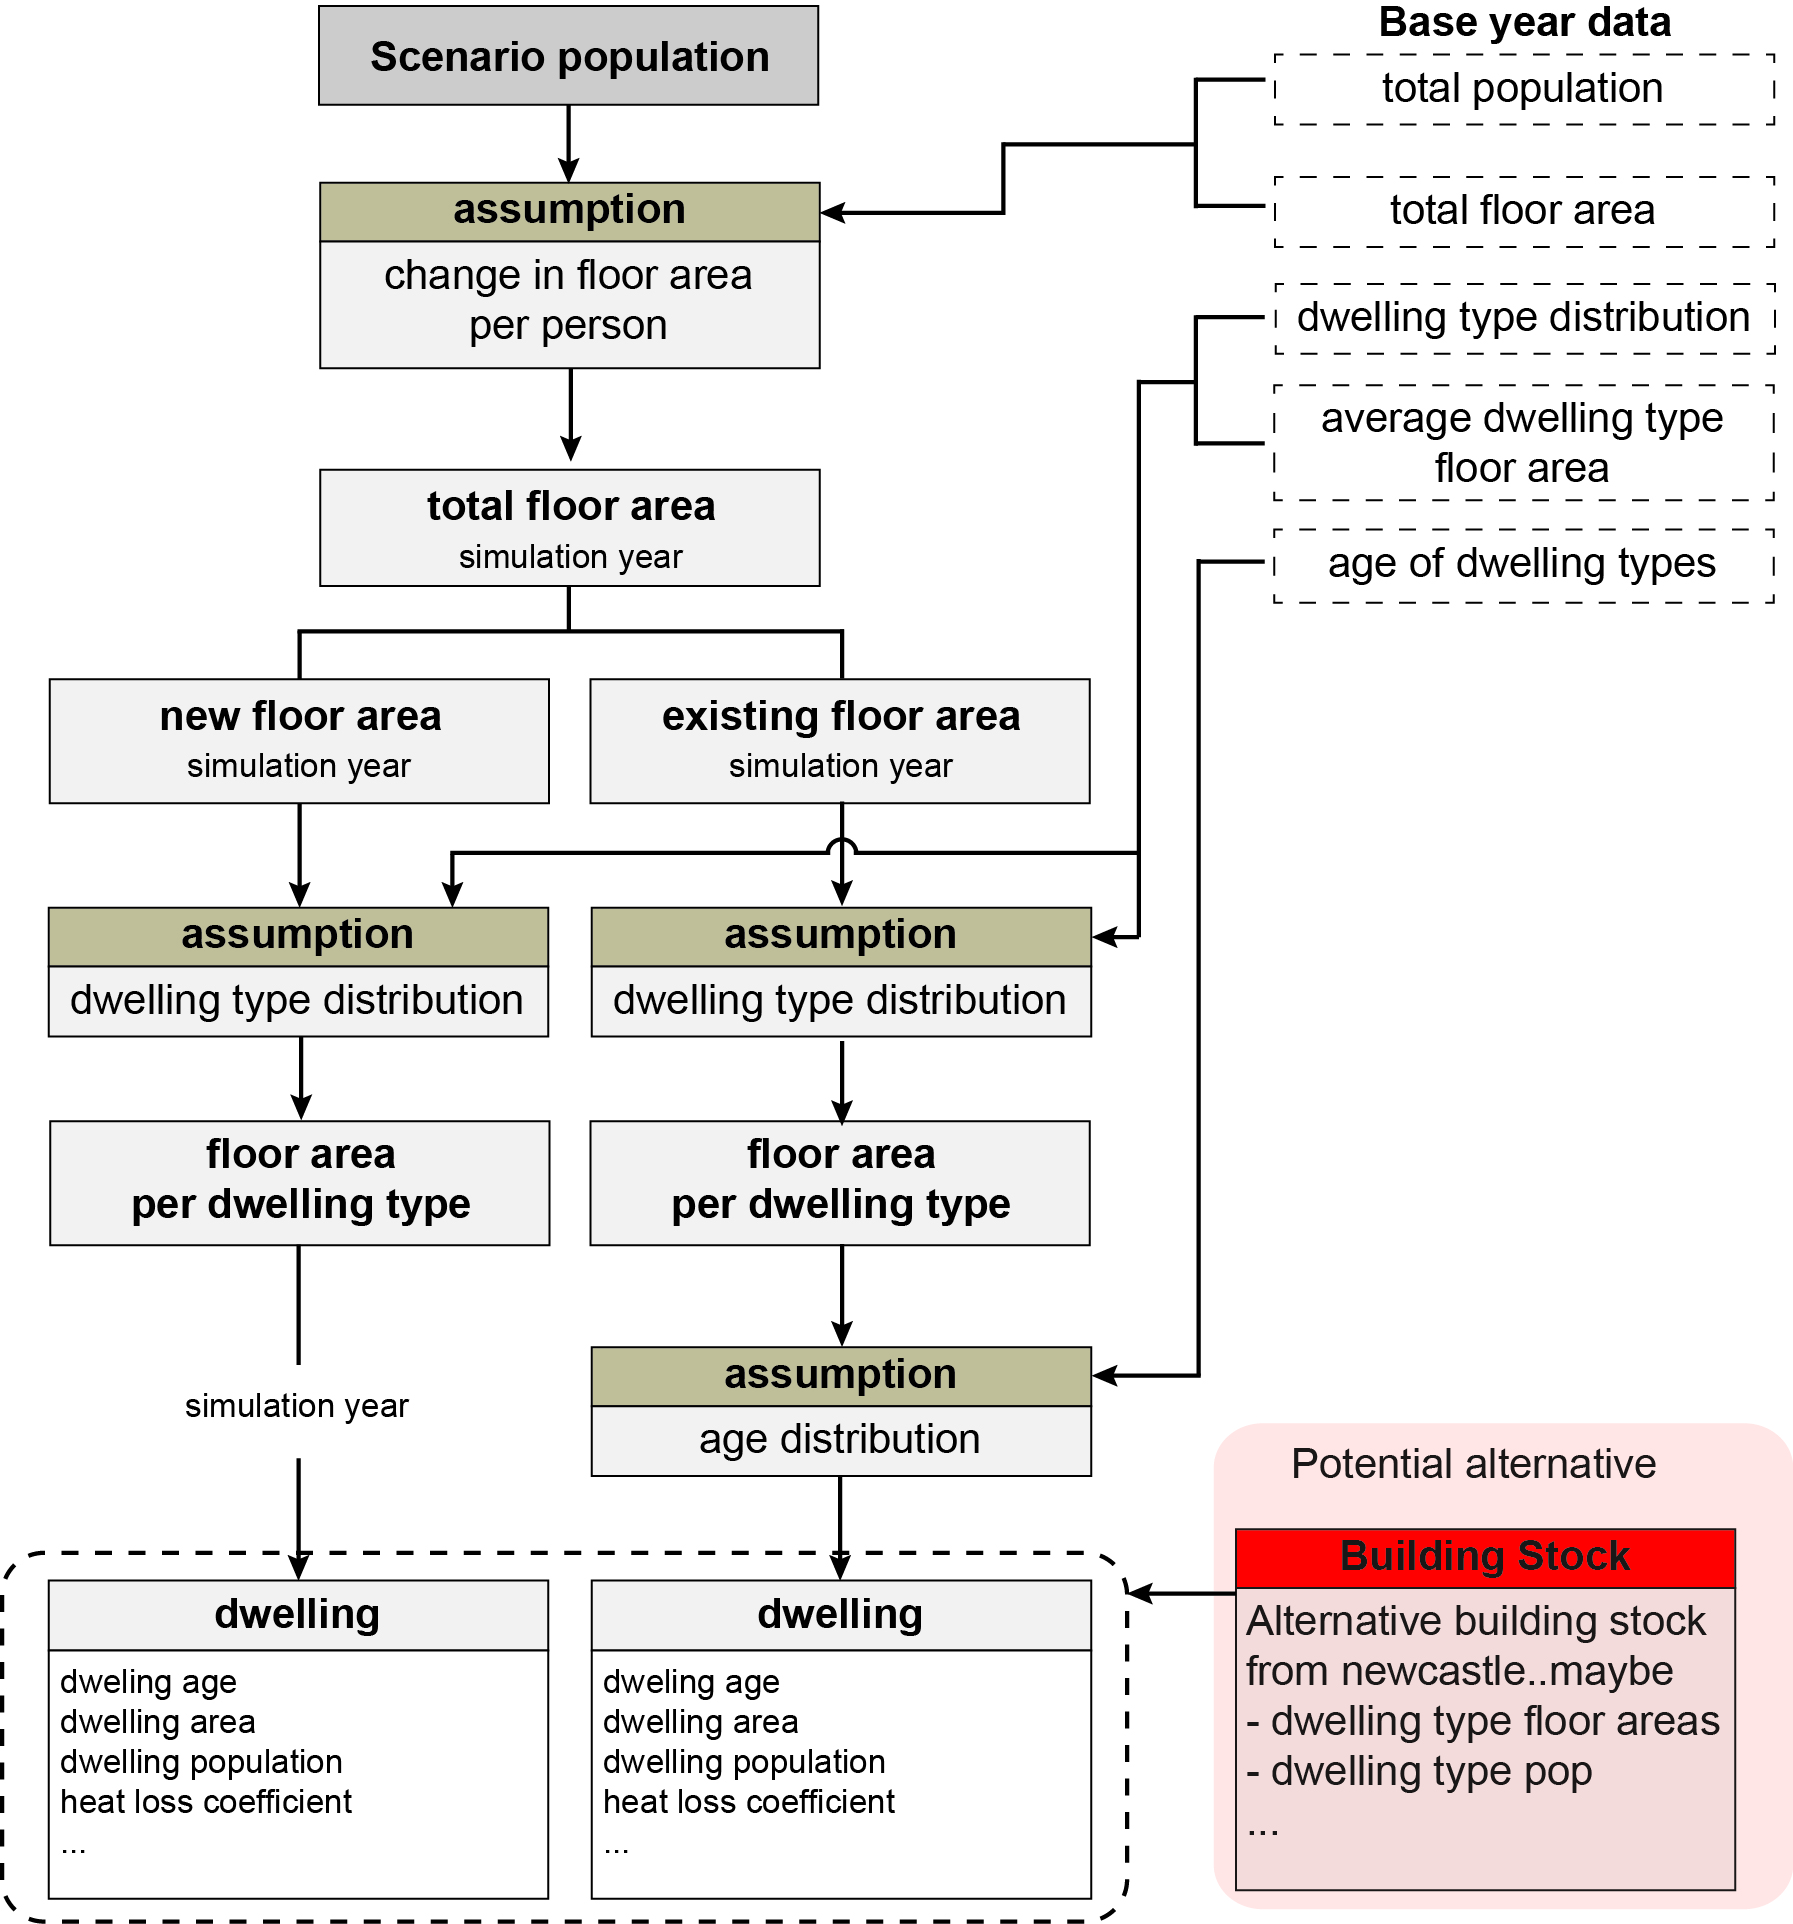
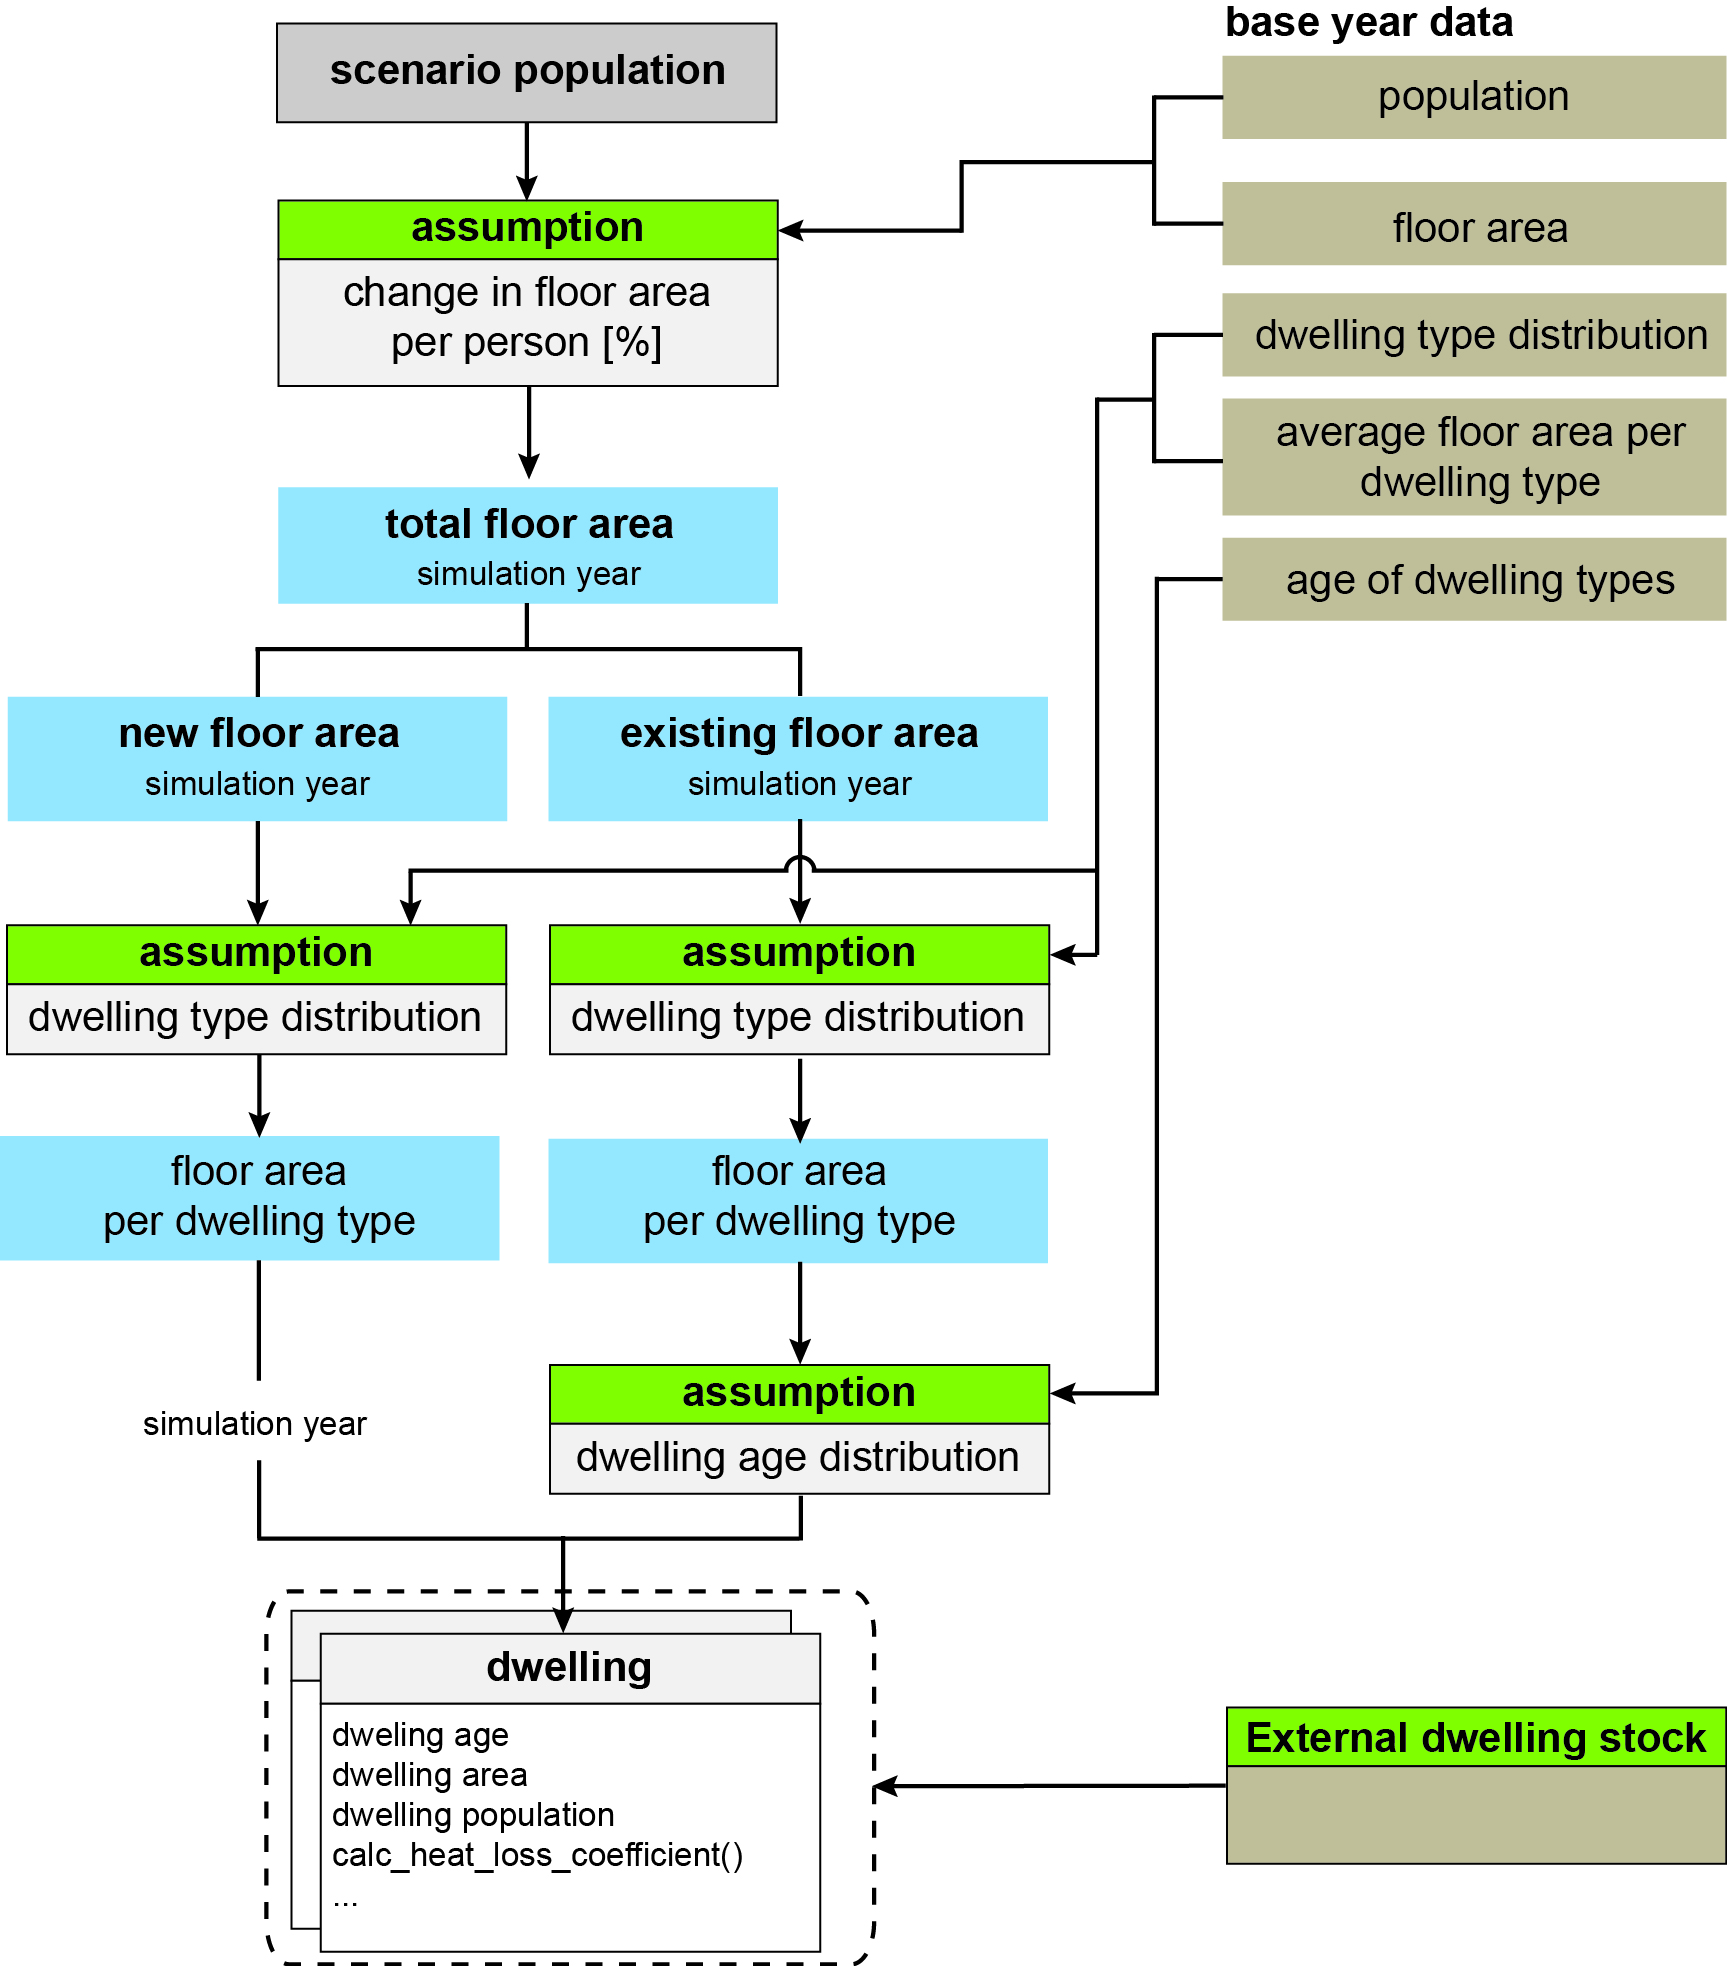
updated documentation

diff --git a/run.py b/run.py
@@ -468,7 +468,7 @@ class EDWrapper(SectorModel):
         write_data.write_lf(path_runs, "result_reg_load_factor_autumn", [timestep], reg_load_factor_autumn, 'reg_load_factor_autumn')
 
         logging.info("... finished wrapper calculations")
-        #prnt(":")
+
         return {'model_name': supply_results}
 
     def extract_obj(self, results):

diff --git a/docs/documentation.md b/docs/documentation.md
@@ -21,7 +21,7 @@ to be stored in a local folder (`data_energy_demand`).
 Documentation
 ===================
 
-## 1. Overview
+## 1. Introduction
 
 
 The energy demand model of the ITRC-MISTRAL framework allows 
@@ -41,7 +41,21 @@ are defined and modelled where possible on a household level.
 The energy demand model integrates energy demands across
 all ITRC models and provides demands to the supply model.
 
-### 1.1. Energy demand simulation
+
+
+## 2. Overview of model and simulation approach
+
+![Model overview](../docs/documentation_images/000-model_overview.jpg)
+*Figure XY: Overview of modelled end uses and sectors*
+
+
+## 3. Main working steps
+
+The main working steps as outlined in Figure XY are explained
+
+### 3.1 Spatial disaggregation
+
+### 3.2 Annual demand simulation
 
 Total energy demand of a (simulation) year (![equation](https://latex.codecogs.com/gif.latex?ED_%7By%7D%5E%7Btot%7D "ED_{y}^{tot}"))is calculated over all regions (r), sectors (s), end-uses (e), technologies (t) and fuel-types (f) as follows:
 
@@ -93,15 +107,12 @@ For the residential and service sub-model, SD values are calculated based on a d
 
 *Table 1.1: End-use specific scenario drivers for energy demand*
 
-### 1.2 Main working flow
-
-Lorem ipsum...
 ![Image of model integration](../docs/documentation_images/004-ULM_main_classes.jpg)
 *Figure 3.1: Interaction*
 
-## 3. Model integration
+## XY. Model Interaction
 
-This section explains how the energy demand and energy supply model interact.
+
 
 ### 3.1 Energy supply and demand model
 
@@ -118,18 +129,15 @@ Lorem ipsum...
 
 ## 4. Generic Dwelling Stock Model
 
-A generic dwelling model is implemented in HIRE. Instead of modelling every individual building, a abstracted dwelling respresentation of the the complete dwelling stock is modelled based on different simplified assumptions. The modelling steps are as follows for every ``Region`` (see Figure 4.1 for the detailed process flow):
+A generic dwelling model is implemented in HIRE which can be used in case no external dwelling stock model is available and can provide the necesarry ``dwelling`` inputs. However, instead of modelling every individual building, an abstracted dwelling respresentation of the the complete dwelling stock is modelled based on different simplified assumptions. The modelling steps are as follows for every ``Region`` (see Figure 4.1 for the detailed process flow):
 
-1. Based on base year total population and total floor area, the floor area per person is calculated (``floor_area_pp``).
-  The floor area per person can be changed over the simulation period.
+1. Based on base year total population and total floor area, the floor area per person is calculated (``floor_area_pp``). The floor area per person can be changed over the simulation period.
 
-2. Based on the floor area per person and scenario population input, total necessary new and existing floor area is calculated         for the simulation year (by substracting the existing floor area of the total new floor area).
+2. Based on the floor area per person and scenario population input, total necessary new and existing floor area is calculated for the simulation year (by substracting the existing floor area of the total new floor area).
 
-3. Based on assumptions on the dwelling type distribution (``assump_dwtype_distr``) the floor area per dwelling type is
-   calculated.
+3. Based on assumptions on the dwelling type distribution (``assump_dwtype_distr``) the floor area per dwelling type is calculated.
 
-4. Based on assumptions on the age of the dwelling types, different ``Dwelling`` objects are generated. The
-   heat loss coefficient is calculated for every object.
+4. Based on assumptions on the age of the dwelling types, different ``Dwelling`` objects are generated. The heat loss coefficient is calculated for every object.
 
 5. Additional dwelling stock related properties can be added to the ``Dwelling`` objects which give
    indication of the energy demand and can be used for calculating the scenario drivers.
@@ -465,3 +473,5 @@ UK Met Office (2015): ‘MIDAS: UK hourly weather observation data’. Centre fo
 
 ###### Varia
 - https://www.codecogs.com/latex/eqneditor.php used for this documentation
+
+
